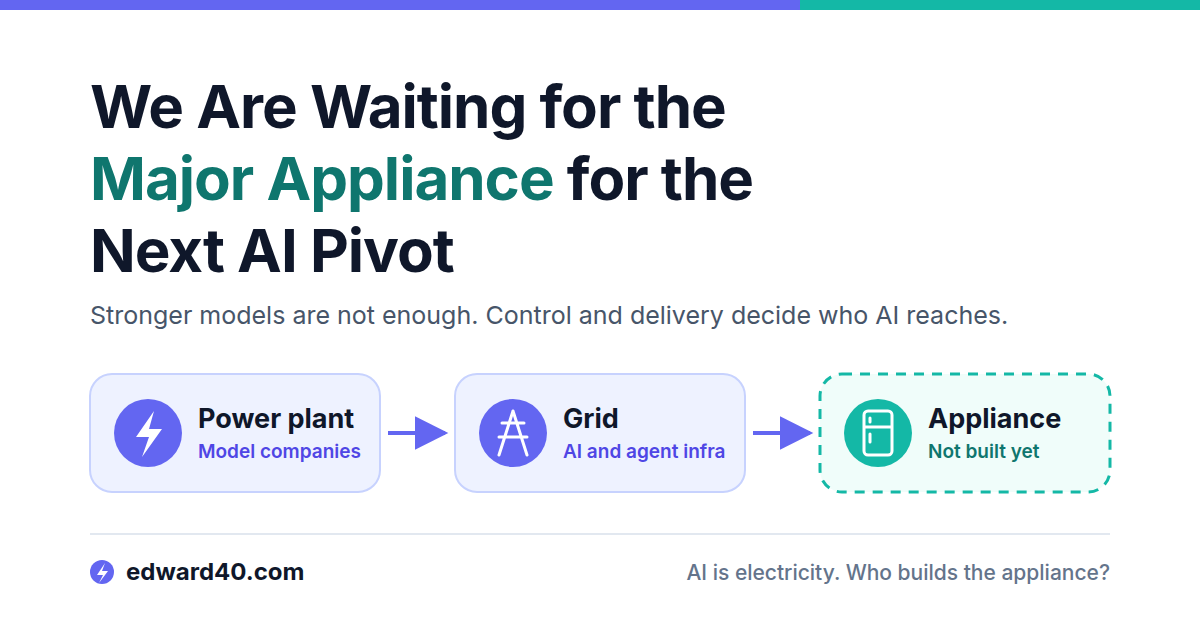
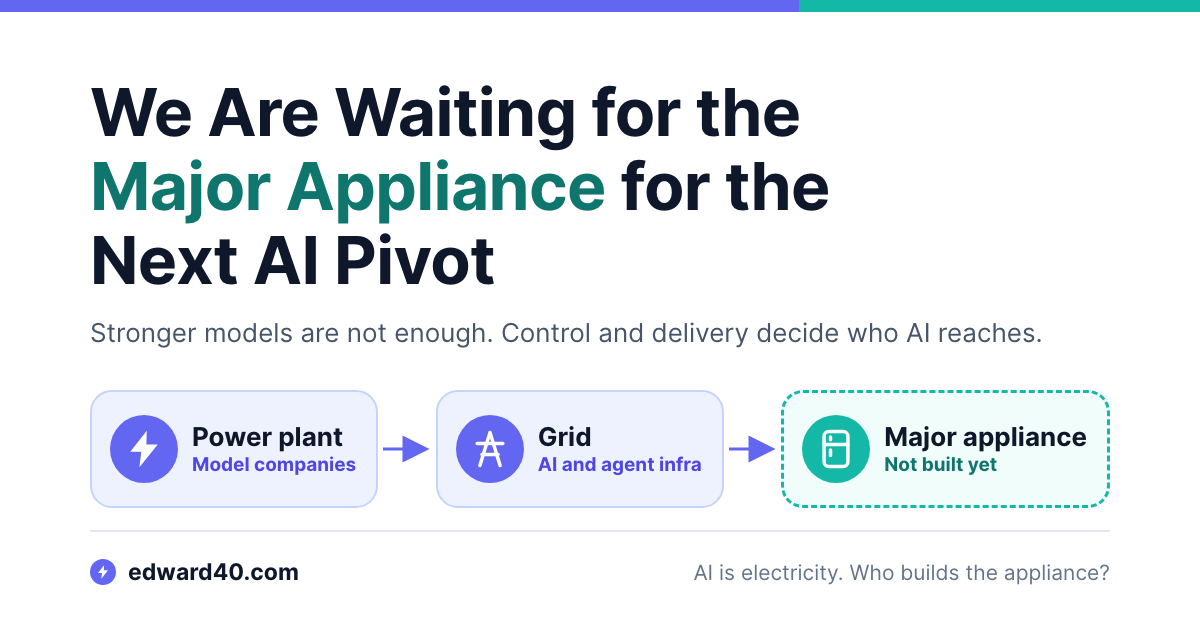
Revise major appliance AI pivot post and unify its images
Open with the anecdote, state the thesis once, and add the reasoning behind the Opus 4.6 pivot, the Muse and Grok Bot blocks, the media system, and why ChatGPT is not yet the appliance. Use one caption per figure. Rebuild the cover and three figures in a shared style that matches the revised text.

diff --git a/content/post/ai-major-appliance-pivot/index.md b/content/post/ai-major-appliance-pivot/index.md
@@ -1,6 +1,6 @@
 ---
 title: "We Are Waiting for the Major Appliance for the Next AI Pivot"
-description: "The models will keep getting stronger. Whether that changes anyone's life comes down to two things: control and delivery."
+description: "Stronger models are the power plants. Control and delivery are the grid. What's still missing is the appliance that brings AI into everyone's daily life."
 slug: ai-major-appliance-pivot
 image: cover.png
 date: 2026-11-14T00:00:00-08:00
@@ -13,45 +13,39 @@ categories:
   - AI
 ---
 
-*The models will keep getting stronger. Whether that changes anyone's life comes down to two things: control and delivery.*
+Something surprised me recently. People I never expected to touch AI, including elderly people, came to me asking how to find an image they had seen online. It turned out the image was AI-generated. They didn't go looking for AI. AI found them.
 
-I've been thinking about where the AI industry is going, and I keep landing on the same answer. The two things that matter most are control and delivery.
+I keep coming back to that when I think about where the AI industry is going. The models will keep getting stronger. Whether that changes anyone's life comes down to two things: control and delivery. And delivery is still missing its most important piece, which I'll call the major appliance.
 
 ## Control
 
-Control means two things to me.
+Control means two things to me: getting an agent to do what you want, and making sure nobody else can make it do what they want.
 
-The first is making agents better. There are two levers for that: the model itself, which keeps improving along the scaling laws, and the harness around it, meaning the tools, context, and environment the model works inside. Both matter, and the harness is often where the practical gains show up first.
+The first is about making agents better. There are two levers for that: the model itself, which keeps improving along the scaling laws (more compute and data keep producing more capable models), and the harness around it, meaning the tools, context, and environment the model works inside. Both matter, and the harness is often where the practical gains show up first.
 
-The second is security. An agent that can do real work is an agent that holds real access. It has to keep credentials from leaking. It also has to keep its integrity: it should not be altered or redirected by unauthorized people who borrow someone else's identity to gain trust. As agents take on more of our work, the question stops being "can it do the task?" and becomes "can I trust that it is still working for me?"
+The second is security. An agent that can do real work is an agent that holds real access. It has to keep credentials from leaking. It also has to keep its integrity: it should not be altered or redirected by someone impersonating a person it trusts. As agents take on more of our work, the question stops being "can it do the task?" and becomes "can I trust that it is still working for me?"
 
 ## Delivery
 
-Andrej Karpathy recently did some napkin math: somewhere around 6 billion people, about 75% of the world, have barely come in contact with LLMs at all. To me that is the delivery problem in one number. Most people have not yet had the chance to use these tools to improve their own lives.
+Andrej Karpathy recently did some [napkin math](https://x.com/karpathy/status/2109361546505966046) (Oct 11, 2026): somewhere around 6 billion people, about 75% of the world, have barely come in contact with LLMs at all. To me that is the delivery problem in one number. Most people have not yet had the chance to use these tools to improve their own lives.
 
-He lays it out as a funnel:
+He lays it out as a funnel. Below those 6 billion are 1 to 2 billion casual users of free chatbots, about 20 million people who use frontier models professionally, and roughly 5,000 with internal access to frontier systems.
 
-![The LLM contact funnel: ~6B people (~75%) have barely come in contact with LLMs, ~1-2B (~20%) are casual free-tier users, ~20M (0.2%) use frontier LLMs professionally in math and code, and ~5,000 (~0.00006%) have internal access to frontier systems.](llm-contact-funnel.png)
+![Figure 1. The LLM contact funnel, from Karpathy's napkin math. Band widths are not to scale.](llm-contact-funnel.png)
 
-*Figure 1. The LLM contact funnel. Figures are Karpathy's own napkin math from his [post on X](https://x.com/karpathy/status/2109361546505966046) (Oct 11, 2026). Band widths are not to scale.*
-
-Something that surprised me: people I never expected to touch AI, including elderly people, have come to me asking how to find an image they saw online. It turned out the image was AI-generated. They didn't go looking for AI. AI found them.
-
-I'm not saying everyone has to love AI. But I do believe AI can and will replace digital work broadly, and that will heavily affect everyone living in a society that runs on digital systems. Whether people opt in or not, they will feel it. So the job is to make sure they also get the benefit.
+I'm not saying everyone has to love AI. But I do believe AI can and will replace digital work broadly, and that will heavily affect everyone living in a society that runs on digital systems. Like the people who asked me about that image, they will feel it whether they opt in or not. So the job is to make sure they also get the benefit.
 
 ## Three pivots so far
 
 Looking back, I see three turning points.
 
-**1. The GPT-3 moment.** Prompt engineering became a skill, and the industry focused on chat.
+**1. The GPT-3 moment (2020).** Prompt engineering became a skill, and once ChatGPT arrived in 2022 the industry focused on chat.
 
-**2. Manus.** People realized agents were the thing that mattered. Last year, a lot of agent application companies thrived.
+**2. Manus (2025).** People realized agents were the thing that mattered, and a lot of agent application companies thrived.
 
-**3. Opus 4.6.** This year it changed the rules. The first time I used it, I was amazed by how flexible it was. Many agent companies died. Value moved down the stack, to the infrastructure that supports agents. AI infra, like inference and RL training, is thriving. So is agent infra, like sandboxes and cloud agent platforms.
+**3. Opus 4.6 (2026).** It changed the rules. The first time I used it, I was amazed by how flexible it was. The model was moving faster than the harness: a better model could handle most things on its own, so much of what agent companies had built stopped mattering. Many of them died. Relay.app, an agent workflow tool, shut down after larger platforms built the same automation in, and Ollie, an AI family assistant, closed after failing to stand out (both are on [TechCrunch's running list of AI shutdowns](https://techcrunch.com/2026/11/14/the-ai-graveyard-a-running-list-of-projects-and-startups-that-didnt-make-it/)). Value moved down the stack, to the infrastructure that supports agents. AI infra, like inference and RL training, is thriving. So is agent infra, like sandboxes and cloud agent platforms.
 
-![Timeline of three AI pivots: the GPT-3 moment (prompt engineering, chat), Manus (agents matter, agent application companies thrive), Opus 4.6 (many agent companies die, value moves to AI infra and agent infra), and a guessed fourth pivot: major appliances.](ai-pivots-timeline.png)
-
-*Figure 2. Three pivots so far, plus my guess at the fourth.*
+![Figure 2. Three pivots so far, plus my guess at the fourth.](ai-pivots-timeline.png)
 
 ## What comes next: AI as electricity
 
@@ -63,20 +57,22 @@ But power on its own doesn't light a single home. You need a grid to deliver it 
 
 Then there is the part that actually changes daily life. Nobody's life changed because a power plant existed. It changed because of the major appliances that plugged into the grid: the TV, the fridge, the air conditioner.
 
-My guess is that the next pivot is a hyperscaler of appliances. Products that draw power from the grid and change everyone's life, not just the lives of developers and early adopters.
+My guess is that the next pivot is appliances at hyperscale: products that draw power from the grid and change everyone's life, not just the lives of developers and early adopters.
+
+Chatbots are the closest thing we have today, and 1 to 2 billion people already use them. But ChatGPT is still a tool for personal chat and search. It helps one person at a time. It has not yet strengthened the connections between people.
 
 Put together, the whole chain looks like this:
 
-![Flow diagram: power plant (model companies, scaling laws) to grid (AI infra and agent infra, delivered safely with control and security) to major appliances (the next pivot, a super app built on super efficient context sharing) to ~6B people.](ai-electricity-flow.png)
-
-*Figure 3. AI as electricity. Model companies generate the power, infra delivers it safely, and appliances bring it into everyone's daily life.*
+![Figure 3. AI as electricity. Model companies generate the power, infra delivers it safely, and appliances bring it into everyone's daily life.](ai-electricity-flow.png)
 
 ## The super app I'm waiting for
 
-I believe one of those appliances will be a super app that changes the media system.
+I believe one of those appliances will be a super app that changes the media system. Media has changed before: from newspapers to radio to television. Each step changed how context is shared, from paper to audio to vision. The next step is agents.
 
-I don't think it exists yet. It isn't Muse, it isn't the Grok bot, and it isn't any app I've used so far. I don't know its name. But I'm fairly sure about its core feature: super efficient context sharing. Moving what one person, or one agent, knows to another person or agent with almost no friction.
+I don't think it exists yet. It isn't Meta's Muse and it isn't xAI's Grok Bot. Amazon has [blocked Muse](https://www.geekwire.com/2026/amazon-blocks-metas-muse-ai-assistant-in-new-standoff-over-agentic-shopping/) from shopping on its site, [Grok Bot users report the same](https://cybernews.com/tech/musk-amazon-rival-amid-grok-bot-block/), and other companies are tightening their rules on agents too. It isn't any other app I've used so far either. I don't know its name. But I'm fairly sure about its core feature: super efficient context sharing. Moving what one person, or one agent, knows to another person or agent with almost no friction.
 
-Today, so much effort goes into re-explaining. Copying, pasting, summarizing, catching people up. Whoever makes context flow as easily as electricity flows through a wire will build the appliance everyone ends up using, including those 6 billion people who haven't really started yet.
+Today, so much effort goes into re-explaining. Copying, pasting, summarizing, catching people up. This isn't only an office problem. The people who came to me about that image had to find someone they trusted and explain what they had seen. That is context sharing at its most manual.
+
+Whoever makes context flow as easily as electricity flows through a wire will build the appliance everyone ends up using, including those 6 billion people who haven't really started yet.
 
 That's my bet. The power plants will keep getting bigger. The interesting work is in the grid and the appliances, and in making sure all of it stays under control.

diff --git a/content/post/ai-major-appliance-pivot/index.zh-cn.md b/content/post/ai-major-appliance-pivot/index.zh-cn.md
@@ -1,6 +1,6 @@
 ---
 title: "我们在等待下一次 AI 转折点的“大家电”"
-description: "模型会越来越强，但它能否改变普通人的生活，取决于两件事：控制与交付。"
+description: "更强的模型是发电厂，控制与交付是电网。现在还缺的，是把 AI 带进每个人日常生活的那件“大家电”。"
 slug: ai-major-appliance-pivot
 image: cover.png
 date: 2026-11-14T00:00:00-08:00
@@ -13,45 +13,39 @@ categories:
   - AI
 ---
 
-*模型会越来越强，但它能否改变普通人的生活，取决于两件事：控制与交付。*
+最近有件事让我很意外：一些我从没想过会接触 AI 的人，包括老年人，来问我怎么找到他们在网上看到的一张图片。结果那张图片是 AI 生成的。他们并没有主动去找 AI，而是 AI 找到了他们。
 
-最近我一直在思考 AI 行业的走向，每次得出的答案都一样：最重要的两件事是控制（Control）与交付（Delivery）。
+每次思考 AI 行业的走向，我都会想起这件事。模型会越来越强，但它能否改变普通人的生活，取决于两件事：控制（Control）与交付（Delivery）。而交付还缺最关键的一环，我把它叫做“大家电”。
 
 ## 控制
 
-对我来说，控制包含两层含义。
+对我来说，控制包含两层含义：让 Agent 做你想让它做的事，并确保别人无法让它去做他们想让它做的事。
 
-第一层是让 Agent 变得更好。这里有两个杠杆：一是模型本身，它沿着 Scaling Law 持续进步；二是模型外面的 Harness，也就是模型所依赖的工具、上下文和运行环境。两者都很重要，而实际收益往往最先出现在 Harness 上。
+第一层是让 Agent 变得更好。这里有两个杠杆：一是模型本身，它沿着 Scaling Law 持续进步（更多的算力和数据不断带来更强的模型）；二是模型外面的 Harness，也就是模型所依赖的工具、上下文和运行环境。两者都很重要，而实际收益往往最先出现在 Harness 上。
 
-第二层是安全。一个能做真正工作的 Agent，必然握有真正的权限。它必须防止凭证泄露，也必须保持自身的完整性：不能被那些冒用他人身份骗取信任的未授权者篡改或劫持。随着 Agent 承担越来越多的工作，问题将不再是“它能不能完成任务？”，而是“我能否相信它仍在为我工作？”
+第二层是安全。一个能做真正工作的 Agent，必然握有真正的权限。它必须防止凭证泄露，也必须保持自身的完整性：不能被冒充其信任对象的人篡改或劫持。随着 Agent 承担越来越多的工作，问题将不再是“它能不能完成任务？”，而是“我能否相信它仍在为我工作？”
 
 ## 交付
 
-Andrej Karpathy 最近做了一个粗略估算：全球大约有 60 亿人，约占 75%，几乎从未接触过 LLM。在我看来，这一个数字就概括了交付问题：大多数人还没有机会用这些工具改善自己的生活。
+Andrej Karpathy 最近做了一个[粗略估算](https://x.com/karpathy/status/2109361546505966046)（2026 年 10 月 11 日）：全球大约有 60 亿人，约占 75%，几乎从未接触过 LLM。在我看来，这一个数字就概括了交付问题：大多数人还没有机会用这些工具改善自己的生活。
 
-他把这件事画成了一个漏斗：
+他把这件事画成了一个漏斗。在这 60 亿人之下，是 10 到 20 亿免费聊天机器人的轻度用户、约 2000 万在专业工作中使用前沿模型的人，以及大约 5000 名能在内部接触前沿系统的人。
 
-![LLM 接触漏斗：约 60 亿人（约 75%）几乎没有接触过 LLM；约 10-20 亿人（约 20%）是免费版的轻度用户；约 2000 万人（0.2%）在数学和代码领域专业地使用前沿 LLM；约 5000 人（约 0.00006%）能在内部接触前沿系统。](llm-contact-funnel.png)
+![图 1. LLM 接触漏斗，数据来自 Karpathy 的粗略估算，各层宽度并非按比例绘制。](llm-contact-funnel.png)
 
-*图 1. LLM 接触漏斗。数据来自 Karpathy 在 [X 上的帖子](https://x.com/karpathy/status/2109361546505966046)（2026 年 10 月 11 日）中的粗略估算，各层宽度并非按比例绘制。*
-
-有件事让我很意外：一些我从没想过会接触 AI 的人，包括老年人，来问我怎么找到他们在网上看到的一张图片。结果那张图片是 AI 生成的。他们并没有主动去找 AI，而是 AI 找到了他们。
-
-我并不是说每个人都必须喜欢 AI。但我确实相信，AI 能够而且将会广泛取代数字化工作，这会深刻影响每一个生活在数字化社会中的人。无论人们是否选择参与，都会感受到它的影响。所以我们要做的，是确保他们也能从中受益。
+我并不是说每个人都必须喜欢 AI。但我确实相信，AI 能够而且将会广泛取代数字化工作，这会深刻影响每一个生活在数字化社会中的人。就像那些来问我图片的人一样，无论是否选择参与，他们都会感受到它的影响。所以我们要做的，是确保他们也能从中受益。
 
 ## 迄今为止的三次转折
 
 回头看，我认为有三个转折点。
 
-**1. GPT-3 时刻。** Prompt Engineering 成为一项技能，整个行业聚焦于聊天。
+**1. GPT-3 时刻（2020 年）。** Prompt Engineering 成为一项技能；2022 年 ChatGPT 出现后，整个行业聚焦于聊天。
 
-**2. Manus。** 人们意识到 Agent 才是真正重要的东西。去年，大量 Agent 应用公司蓬勃发展。
+**2. Manus（2025 年）。** 人们意识到 Agent 才是真正重要的东西，大量 Agent 应用公司蓬勃发展。
 
-**3. Opus 4.6。** 今年它改变了规则。第一次使用时，我就被它的灵活性震撼了。许多 Agent 公司倒下，价值沿着技术栈下沉到支撑 Agent 的基础设施：推理、RL 训练等 AI Infra 正在繁荣，沙箱、云端 Agent 平台等 Agent Infra 也是如此。
+**3. Opus 4.6（2026 年）。** 它改变了规则。第一次使用时，我就被它的灵活性震撼了。模型的进步速度超过了 Harness：更好的模型自己就能处理大部分事情，Agent 公司搭建的许多东西因此失去了意义，许多公司倒下。做 Agent 工作流的 Relay.app，在大平台内置了同类自动化之后关停；AI 家庭助手 Ollie 也因为难以脱颖而出而关闭（两者都在 [TechCrunch 的 AI 关停清单](https://techcrunch.com/2026/11/14/the-ai-graveyard-a-running-list-of-projects-and-startups-that-didnt-make-it/)上）。价值沿着技术栈下沉到支撑 Agent 的基础设施：推理、RL 训练等 AI Infra 正在繁荣，沙箱、云端 Agent 平台等 Agent Infra 也是如此。
 
-![三次 AI 转折的时间线：GPT-3 时刻（Prompt Engineering、聊天）、Manus（Agent 才是关键，Agent 应用公司繁荣）、Opus 4.6（许多 Agent 公司倒下，价值转向 AI Infra 和 Agent Infra），以及我猜测的第四次转折：大家电。](ai-pivots-timeline.png)
-
-*图 2. 迄今为止的三次转折，以及我对第四次的猜测。*
+![图 2. 迄今为止的三次转折，以及我对第四次的猜测。](ai-pivots-timeline.png)
 
 ## 下一步：AI 如电力
 
@@ -65,18 +59,20 @@ Andrej Karpathy 最近做了一个粗略估算：全球大约有 60 亿人，约
 
 我的猜测是，下一次转折将是大家电级别的超大规模产品：从电网取电，改变每个人的生活，而不仅仅是开发者和早期用户的生活。
 
+聊天机器人是今天最接近大家电的东西，已经有 10 到 20 亿人在用。但 ChatGPT 仍然只是个人聊天和搜索的工具，一次只帮助一个人，还没有增强人与人之间的连接。
+
 把这些串起来，整条链路是这样的：
 
-![流程图：发电厂（模型公司、Scaling Law）到电网（AI Infra 和 Agent Infra，以控制与安全的方式交付）到大家电（下一次转折，一个建立在超高效上下文共享之上的超级应用），最终到达约 60 亿人。](ai-electricity-flow.png)
-
-*图 3. AI 如电力。模型公司发电，Infra 安全输电，大家电把电力带进每个人的日常生活。*
+![图 3. AI 如电力。模型公司发电，Infra 安全输电，大家电把电力带进每个人的日常生活。](ai-electricity-flow.png)
 
 ## 我在等待的超级应用
 
-我相信，其中一件大家电会是一个改变媒体体系的超级应用。
+我相信，其中一件大家电会是一个改变媒体体系的超级应用。媒体体系以前也变过：从报纸到广播，再到电视。每一步都改变了上下文共享的方式，从纸张到声音，再到影像。下一步是 Agent。
 
-我认为它还不存在。它不是 Muse，不是 Grok bot，也不是我用过的任何应用。我不知道它叫什么名字，但我相当确定它的核心功能：超高效的上下文共享，几乎无摩擦地把一个人或一个 Agent 所知道的东西传递给另一个人或 Agent。
+我认为它还不存在。它不是 Meta 的 Muse，也不是 xAI 的 Grok Bot：Amazon 已经[禁止 Muse](https://www.geekwire.com/2026/amazon-blocks-metas-muse-ai-assistant-in-new-standoff-over-agentic-shopping/) 在其网站上购物，[Grok Bot 的用户也反映遇到了同样的情况](https://cybernews.com/tech/musk-amazon-rival-amid-grok-bot-block/)，其他公司也在收紧对 Agent 的限制。它也不是我用过的任何其他应用。我不知道它叫什么名字，但我相当确定它的核心功能：超高效的上下文共享，几乎无摩擦地把一个人或一个 Agent 所知道的东西传递给另一个人或 Agent。
 
-今天，大量精力被花在反复解释上：复制、粘贴、总结、给别人补背景。谁能让上下文像电流在导线中一样顺畅流动，谁就能造出人人都会用的那件大家电，包括那 60 亿还没真正开始使用 AI 的人。
+今天，大量精力被花在反复解释上：复制、粘贴、总结、给别人补背景。这不只是办公室里的问题。那些来问我图片的人，得先找到一个信得过的人，再把自己看到的东西讲一遍。这就是最原始的上下文共享。
+
+谁能让上下文像电流在导线中一样顺畅流动，谁就能造出人人都会用的那件大家电，包括那 60 亿还没真正开始使用 AI 的人。
 
 这就是我的押注。发电厂会越建越大，而真正有意思的工作在电网和大家电上，以及确保这一切始终处于控制之中。
